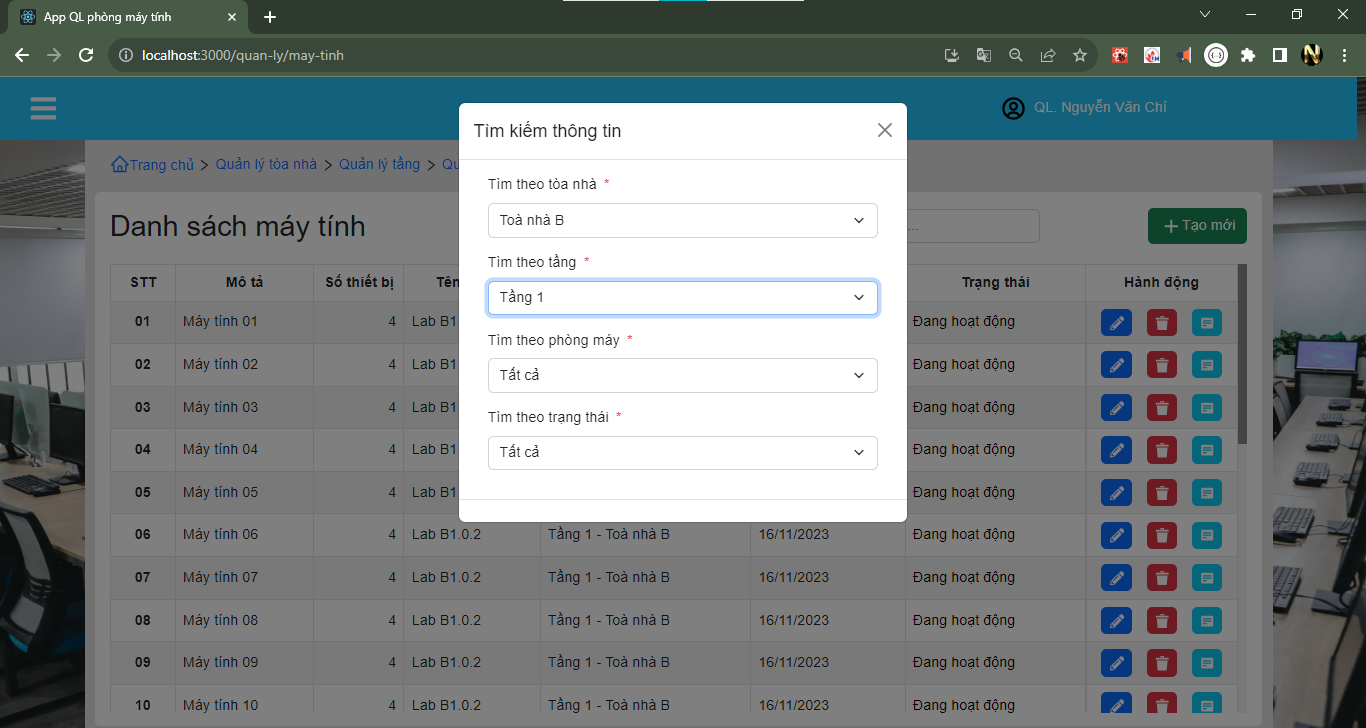
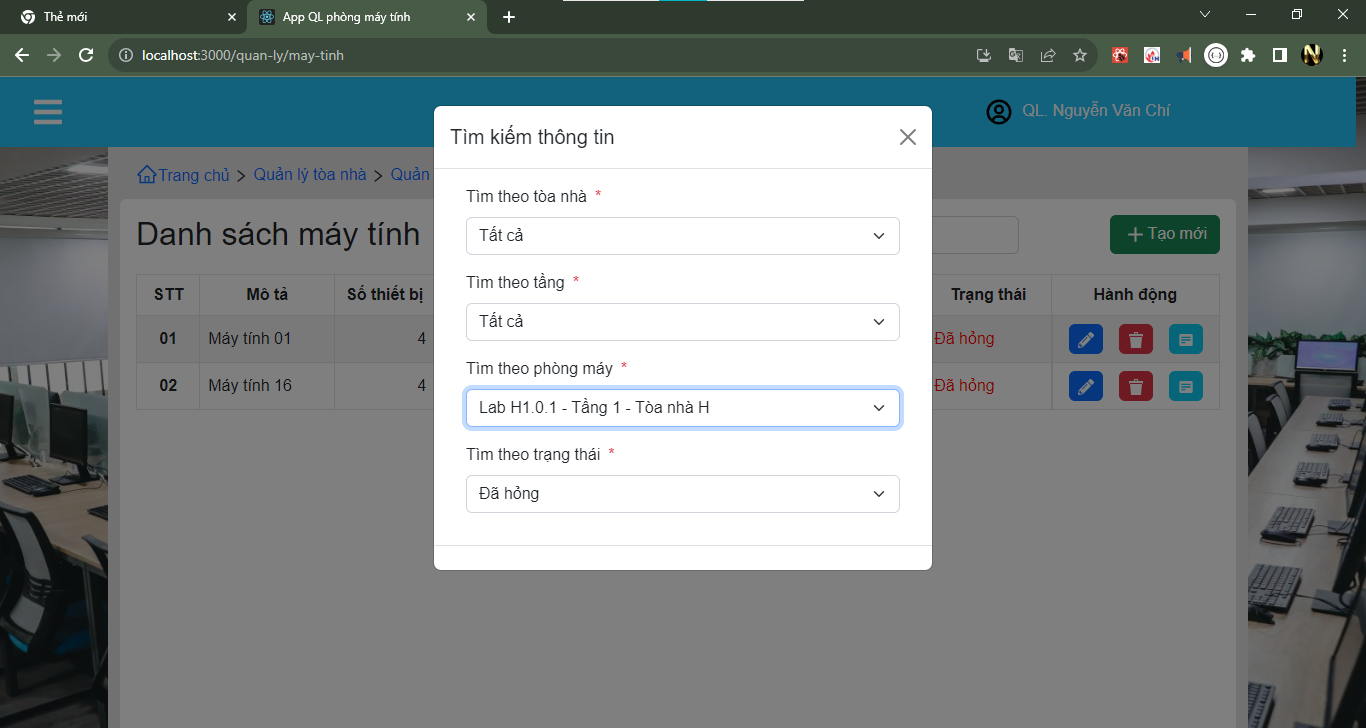
QLMayTinh: finish searchTRang thai, PhongMay

diff --git a/src/redux/reducers/mayTinhReducer.jsx b/src/redux/reducers/mayTinhReducer.jsx
@@ -11,7 +11,7 @@ const initialState = {
   valueSelToaNha: "-1",
   valueSelTang: "-1",
   valueSelPhongMay: "-1",
-  valueSelTrangThai:'-1',
+  valueSelTrangThai: "-1",
 };
 
 const mayTinhReducer = createSlice({
@@ -25,47 +25,136 @@ const mayTinhReducer = createSlice({
     setValueSearchMayTinhAction: (state, action) => {
       state.valueSearch = action.payload;
 
-      // 
-      let {arrMayTinh, valueSearch, valueSelPhongMay, valueSelTang, valueSelToaNha, valueSelTrangThai} = state;
+      //
+      let {
+        arrMayTinh,
+        valueSearch,
+        valueSelPhongMay,
+        valueSelTang,
+        valueSelToaNha,
+        valueSelTrangThai,
+      } = state;
 
-      state.arrMayTinhSearch = dataSearch(arrMayTinh, action.payload, valueSelToaNha, valueSelTang, valueSelPhongMay,valueSelTrangThai)
+      state.arrMayTinhSearch = dataSearch(
+        arrMayTinh,
+        action.payload,
+        valueSelToaNha,
+        valueSelTang,
+        valueSelPhongMay,
+        valueSelTrangThai
+      );
     },
     setvalueSelToaNha_MayTinhAction: (state, action) => {
       state.valueSelToaNha = action.payload;
-      state.valueSelTang = -1
-      // 
-      let {arrMayTinh, valueSearch, valueSelPhongMay, valueSelTang, valueSelToaNha, valueSelTrangThai} = state;
+      state.valueSelTang = -1;
+      state.valueSelPhongMay = -1;
+      //
+      let {
+        arrMayTinh,
+        valueSearch,
+        valueSelPhongMay,
+        valueSelTang,
+        valueSelToaNha,
+        valueSelTrangThai,
+      } = state;
 
-      state.arrMayTinhSearch = dataSearch(arrMayTinh, valueSearch, action.payload, valueSelTang, valueSelPhongMay,valueSelTrangThai)
+      state.arrMayTinhSearch = dataSearch(
+        arrMayTinh,
+        valueSearch,
+        action.payload,
+        valueSelTang,
+        valueSelPhongMay,
+        valueSelTrangThai
+      );
     },
     setvalueSelTang_MayTinhAction: (state, action) => {
       state.valueSelTang = action.payload;
+      state.valueSelPhongMay = -1;
 
-      // 
-      let {arrMayTinh, valueSearch, valueSelPhongMay, valueSelTang, valueSelToaNha, valueSelTrangThai} = state;
+      //
+      let {
+        arrMayTinh,
+        valueSearch,
+        valueSelPhongMay,
+        valueSelTang,
+        valueSelToaNha,
+        valueSelTrangThai,
+      } = state;
 
-      state.arrMayTinhSearch = dataSearch(arrMayTinh, valueSearch, valueSelToaNha, action.payload, valueSelPhongMay,valueSelTrangThai)
+      state.arrMayTinhSearch = dataSearch(
+        arrMayTinh,
+        valueSearch,
+        valueSelToaNha,
+        action.payload,
+        valueSelPhongMay,
+        valueSelTrangThai
+      );
     },
+    setvalueSelPhongMay_MayTinhAction: (state, action) => {
+      state.valueSelPhongMay = action.payload;
 
+      //
+      let {
+        arrMayTinh,
+        valueSearch,
+        valueSelPhongMay,
+        valueSelTang,
+        valueSelToaNha,
+        valueSelTrangThai,
+      } = state;
+
+      state.arrMayTinhSearch = dataSearch(
+        arrMayTinh,
+        valueSearch,
+        valueSelToaNha,
+        valueSelTang,
+        action.payload,
+        valueSelTrangThai
+      );
+    },
+    setvalueSelTrangThai_MayTinhAction: (state, action) => {
+      state.valueSelTrangThai = action.payload;
+
+      //
+      let {
+        arrMayTinh,
+        valueSearch,
+        valueSelPhongMay,
+        valueSelTang,
+        valueSelToaNha,
+        valueSelTrangThai,
+      } = state;
+
+      state.arrMayTinhSearch = dataSearch(
+        arrMayTinh,
+        valueSearch,
+        valueSelToaNha,
+        valueSelTang,
+        valueSelPhongMay,
+        action.payload
+      );
+    },
   },
 });
 // exp nay de sử dụng theo cách 2
-export const { 
+export const {
   setArrMayTinhAction,
-  setValueSearchMayTinhAction, 
+  setValueSearchMayTinhAction,
   setvalueSelToaNha_MayTinhAction,
   setvalueSelTang_MayTinhAction,
+  setvalueSelPhongMay_MayTinhAction,
+  setvalueSelTrangThai_MayTinhAction,
 } = mayTinhReducer.actions;
 export default mayTinhReducer.reducer;
 
 // +++++++++++++++++++++++++++++++++++++++++++++++++++++++++
 /**
- * 
- * @param {* data ccần tìm} arrData 
- * @param {* data search ở text} valSearch 
- * @param {* data select toaNha} valSelect1 
- * @param {* data select tang} valSelect2 
- * @param {* data select phong may} valSelect3 
+ *
+ * @param {* data ccần tìm} arrData
+ * @param {* data search ở text} valSearch
+ * @param {* data select toaNha} valSelect1
+ * @param {* data select tang} valSelect2
+ * @param {* data select phong may} valSelect3
  * @param {* data select Trangj thai} valSelect4
  */
 const dataSearch = (
@@ -77,32 +166,45 @@ const dataSearch = (
   valSelect4
 ) => {
   let search = valSearch.toLowerCase();
-  
-  let arrUpdate = arrData.filter(item => {
+
+  let arrUpdate = arrData.filter((item) => {
     let ngaySD = new Date(item.ngayLapDat);
     return (
-      (item.thietBiMays.length+'').toLowerCase().includes(search) ||
+      (item.thietBiMays.length + "").toLowerCase().includes(search) ||
       item.moTa.toLowerCase().includes(search) ||
       item.phongMay.tenPhong.toLowerCase().includes(search) ||
       item.phongMay.tang.tenTang.toLowerCase().includes(search) ||
       item.phongMay.tang.toaNha.tenToaNha.toLowerCase().includes(search) ||
       formatToaNhaAndTang(item.phongMay.tang).toLowerCase().includes(search) ||
       formatStringDate(ngaySD).toLowerCase().includes(search)
-    )
-  })
+    );
+  });
 
   // 1
-  if(valSelect1 != -1) {
-    arrUpdate = arrUpdate.filter(item =>{
-      return item.phongMay.tang.toaNha.maToaNha == valSelect1
-    })
+  if (valSelect1 != -1) {
+    arrUpdate = arrUpdate.filter((item) => {
+      return item.phongMay.tang.toaNha.maToaNha == valSelect1;
+    });
   }
-  
+
   // 2
-  if(valSelect2 != -1) {
-    arrUpdate = arrUpdate.filter(item =>{
-      return item.phongMay.tang.maTang == valSelect2
-    })
+  if (valSelect2 != -1) {
+    arrUpdate = arrUpdate.filter((item) => {
+      return item.phongMay.tang.maTang == valSelect2;
+    });
+  }
+  // 3
+  if (valSelect3 != -1) {
+    arrUpdate = arrUpdate.filter((item) => {
+      return item.phongMay.maPhong == valSelect3;
+    });
+  }
+
+  // 3
+  if (valSelect4 != -1) {
+    arrUpdate = arrUpdate.filter((item) => {
+      return item.trangThai.toLowerCase().includes(valSelect4.toLowerCase());
+    });
   }
 
   return [...arrUpdate];

diff --git a/src/components/layout/Modal/ModalSearchMayTinh/ModalSearchMayTinh.jsx b/src/components/layout/Modal/ModalSearchMayTinh/ModalSearchMayTinh.jsx
@@ -2,8 +2,10 @@ import React, { useEffect } from "react";
 import { useDispatch, useSelector } from "react-redux";
 import { getAllToaNhaApi } from "../../../../redux/reducers/toaNhaReducer";
 import {
+  setvalueSelPhongMay_MayTinhAction,
   setvalueSelTang_MayTinhAction,
   setvalueSelToaNha_MayTinhAction,
+  setvalueSelTrangThai_MayTinhAction,
 } from "../../../../redux/reducers/mayTinhReducer";
 import { getAllTangApi } from "../../../../redux/reducers/tangReducer";
 import { getAllPhongMayApi } from "../../../../redux/reducers/phongMayReducer";
@@ -31,6 +33,14 @@ export default function ModalSearchMayTinh() {
   }, []);
 
   //handle
+  const handleChangeSelectTrangThai = (e) => {
+    dispatch(setvalueSelTrangThai_MayTinhAction(e.target.value));
+  };
+  //
+  const handleChangeSelectPhongMay = (e) => {
+    dispatch(setvalueSelPhongMay_MayTinhAction(e.target.value));
+  };
+  //
   const handleChangeSelectTang = (e) => {
     dispatch(setvalueSelTang_MayTinhAction(e.target.value));
   };
@@ -47,7 +57,7 @@ export default function ModalSearchMayTinh() {
         // toa nha khong co giatri
         return arrPhongMay.map((item, index) => {
           return (
-            <option key={index} value={item.maPhong}>
+            <option key={index} selected={valueSelPhongMay == item.maPhong ? 1 : 0} value={item.maPhong}>
               {item.tenPhong} - {item.tang.tenTang} -{" "}
               {item.tang.toaNha.tenToaNha}
             </option>
@@ -112,13 +122,6 @@ export default function ModalSearchMayTinh() {
       }
     }
 
-    return arrPhongMay.map((item, index) => {
-      return (
-        <option key={index} value={item.maPhong}>
-          {item.tenPhong} - {item.tang.tenTang} - {item.tang.toaNha.tenToaNha}
-        </option>
-      );
-    });
   };
   //
   const renderSelectTang = () => {
@@ -231,6 +234,7 @@ export default function ModalSearchMayTinh() {
                     className="form-select  "
                     name="searchPhongMay"
                     id="searchPhongMay"
+                    onChange={handleChangeSelectPhongMay}
                   >
                     <option value={-1}>Tất cả</option>
                     {renderSelectPhongMay()}
@@ -246,11 +250,32 @@ export default function ModalSearchMayTinh() {
                     className="form-select  "
                     name="searchTrangThai"
                     id="searchTrangThai"
+                    onChange={handleChangeSelectTrangThai}
                   >
-                    <option value={-1}>Tất cả</option>
-                    <option value>New Delhi</option>
-                    <option value>Istanbul</option>
-                    <option value>Jakarta</option>
+                    <option
+                      selected={valueSelTrangThai
+                        .toLowerCase()
+                        .includes("-1".toLowerCase())}
+                      value={-1}
+                    >
+                      Tất cả
+                    </option>
+                    <option
+                      selected={valueSelTrangThai
+                        .toLowerCase()
+                        .includes("Đang hoạt động".toLowerCase())}
+                      value="Đang hoạt động"
+                    >
+                      Đang hoạt động
+                    </option>
+                    <option
+                      selected={valueSelTrangThai
+                        .toLowerCase()
+                        .includes("Đã hỏng".toLowerCase())}
+                      value="Đã hỏng"
+                    >
+                      Đã hỏng
+                    </option>
                   </select>
                 </div>
                 {/* */}

diff --git a/src/components/layoutHome/ComponentDetailPhong.jsx b/src/components/layoutHome/ComponentDetailPhong.jsx
@@ -40,12 +40,12 @@ export default function ComponentDetailPhong() {
           style={{ width: "150px", height: "150px" }}
         >
           <div className="card-body text-center p-2">
-            <FaComputer size={50} />
+            <FaComputer color={`${colorText}`} size={50} />
             <h4
               className="pt-3 px-4"
               style={{
                 fontSize: "20px",
-                color: `${colorText}`,
+                // color: `${colorText}`,
                 fontWeight: "600",
               }}
             >
